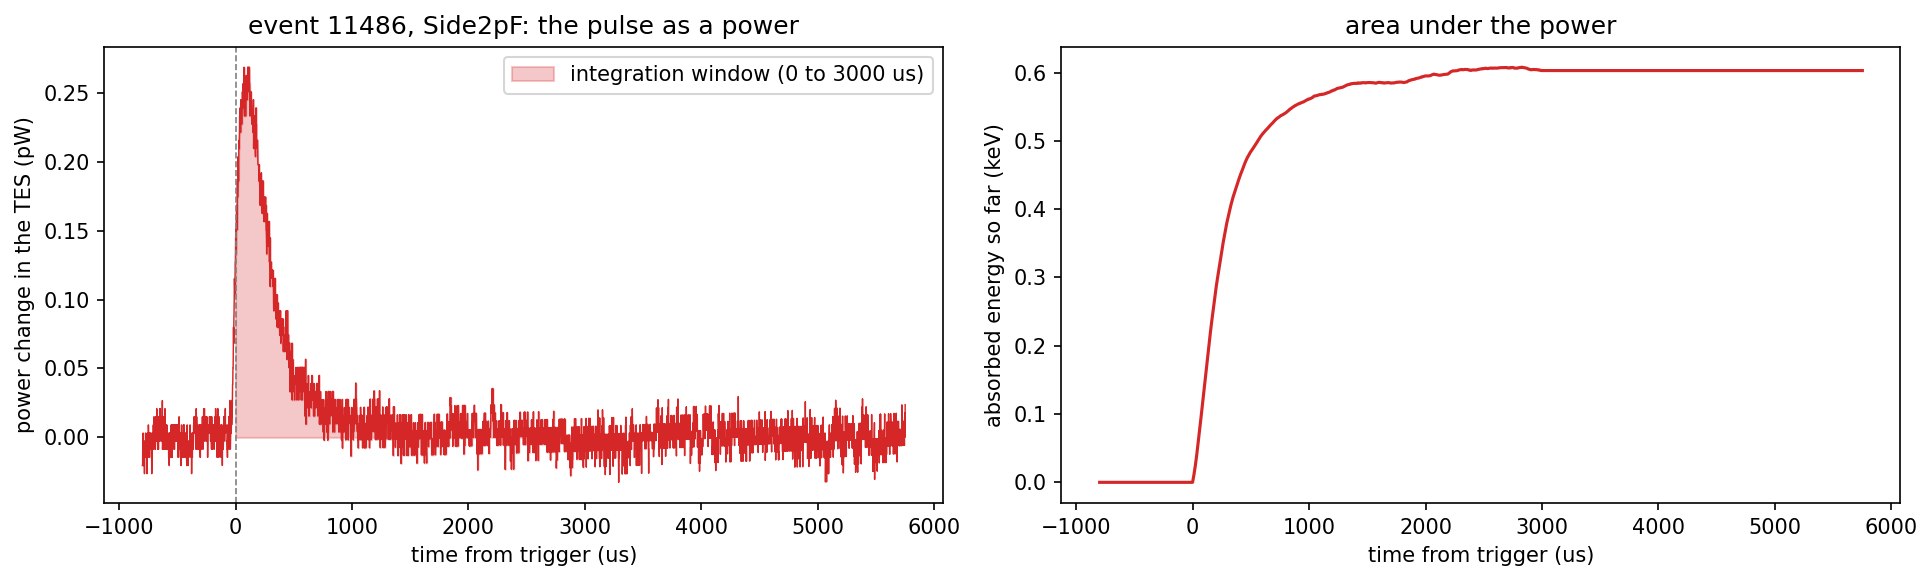
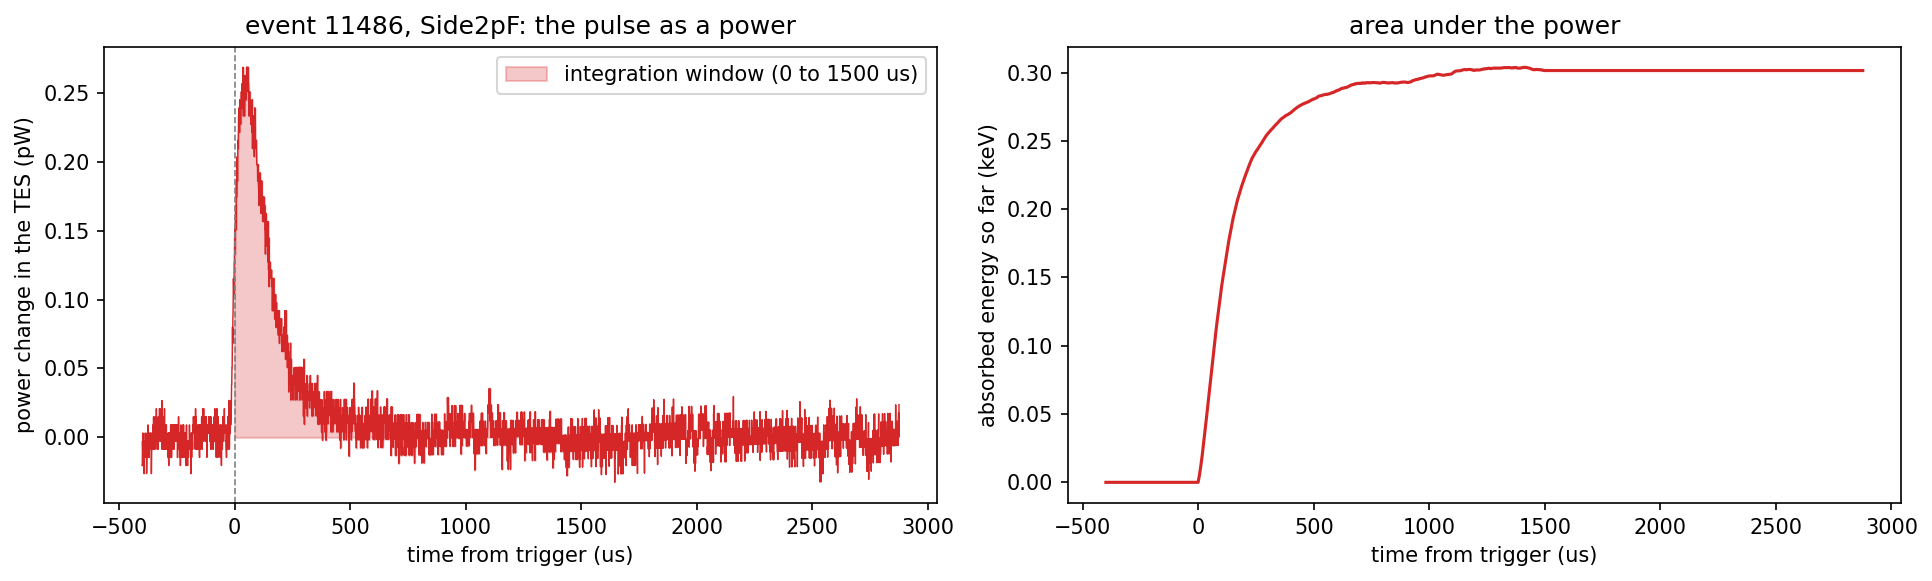
Note on pulse normalization: sample period 0.8 us (energies halve, times and ASD values corrected)
Worked example 0.30 keV in the channel and 1.15 keV in total (was 0.60 and 2.30),
total phonon energy 3.6 keV, electron-recoil energy 0.13 keV; the sample period
is no longer listed as unsettled; pins moved to the commit of the re-run notebooks.

diff --git a/notes/src/pulse-normalization.md b/notes/src/pulse-normalization.md
@@ -10,15 +10,15 @@ description: "Want a refresher on how to analyze the SQUID readout chain for Sup
 
 ## Code repository
 
-All the code of this note is in the repository `villano-lab/NSDF-Data`, in `data_analysis/R76/notebooks/pulse-normalization/` and in `python/`. Every link below is pinned to the commit `59e6e82`: it shows the file as it was when the results of this note were made, which may be older than the latest version, and the file may have moved since (see `data_analysis/README.md`). The notebooks read dump 1 of series `07221203_2025` from `~/idx` (see Data and setup).
+All the code of this note is in the repository `villano-lab/NSDF-Data`, in `data_analysis/R76/notebooks/pulse-normalization/` and in `python/`. Every link below is pinned to the commit `bab8e4d`: it shows the file as it was when the results of this note were made, which may be older than the latest version, and the file may have moved since (see `data_analysis/README.md`). The notebooks read dump 1 of series `07221203_2025` from `~/idx` (see Data and setup).
 
-- [`small-physics-triggers-07221203_2025.ipynb`](https://github.com/villano-lab/NSDF-Data/blob/59e6e82/data_analysis/R76/notebooks/pulse-normalization/small-physics-triggers-07221203_2025.ipynb): the selection of the small real triggers: the drift-robust rise height, the two-sided baseline compared with a straight line, the quiet-pretrigger cut, and the traces of all channels of a few events on one vertical scale.
-- [`detector-layout-small-triggers-07221203_2025.ipynb`](https://github.com/villano-lab/NSDF-Data/blob/59e6e82/data_analysis/R76/notebooks/pulse-normalization/detector-layout-small-triggers-07221203_2025.ipynb): the same events drawn over the detector layout (regions coloured by rise height, traces around the faces, a contact sheet).
-- [`pulse-in-qet-current-07221203_2025.ipynb`](https://github.com/villano-lab/NSDF-Data/blob/59e6e82/data_analysis/R76/notebooks/pulse-normalization/pulse-in-qet-current-07221203_2025.ipynb): one pulse from counts to QET current, power and absorbed energy (Figure 2), with all the constants of the conversion in one cell.
-- [`small_triggers.py`](https://github.com/villano-lab/NSDF-Data/blob/59e6e82/data_analysis/R76/notebooks/pulse-normalization/small_triggers.py) and [`detector_layout.py`](https://github.com/villano-lab/NSDF-Data/blob/59e6e82/data_analysis/R76/notebooks/pulse-normalization/detector_layout.py): the helper code of these notebooks (rise height, baselines, the quiet-pretrigger cut; the drawing of the layout).
-- [`umn-wiki-qet-channel-notes.md`](https://github.com/villano-lab/NSDF-Data/blob/59e6e82/data_analysis/R76/notebooks/pulse-normalization/umn-wiki-qet-channel-notes.md): the working summary of what the UMN wiki says about the QET channels (per-channel values, bias settings, gains).
-- [`tes_squid_readout_circuit.svg`](https://github.com/villano-lab/NSDF-Data/blob/59e6e82/data_analysis/R76/notebooks/figures/tes_squid_readout_circuit.svg): the source of the circuit diagram of Figure 1.
-- Library files used by the notebooks: [`pulse_io.py`](https://github.com/villano-lab/NSDF-Data/blob/59e6e82/python/pulse_io.py), [`pulse_cuts.py`](https://github.com/villano-lab/NSDF-Data/blob/59e6e82/python/pulse_cuts.py), [`pulse_channels.py`](https://github.com/villano-lab/NSDF-Data/blob/59e6e82/python/pulse_channels.py), [`pulse_config.py`](https://github.com/villano-lab/NSDF-Data/blob/59e6e82/python/pulse_config.py), [`pulse_quantities.py`](https://github.com/villano-lab/NSDF-Data/blob/59e6e82/python/pulse_quantities.py), [`pulse_operations.py`](https://github.com/villano-lab/NSDF-Data/blob/59e6e82/python/pulse_operations.py) and [`check_environment.py`](https://github.com/villano-lab/NSDF-Data/blob/59e6e82/python/check_environment.py). `pulse_channels.py` and the trigger-type cuts of `pulse_cuts.py` are tagged under development.
+- [`small-physics-triggers-07221203_2025.ipynb`](https://github.com/villano-lab/NSDF-Data/blob/bab8e4d/data_analysis/R76/notebooks/pulse-normalization/small-physics-triggers-07221203_2025.ipynb): the selection of the small real triggers: the drift-robust rise height, the two-sided baseline compared with a straight line, the quiet-pretrigger cut, and the traces of all channels of a few events on one vertical scale.
+- [`detector-layout-small-triggers-07221203_2025.ipynb`](https://github.com/villano-lab/NSDF-Data/blob/bab8e4d/data_analysis/R76/notebooks/pulse-normalization/detector-layout-small-triggers-07221203_2025.ipynb): the same events drawn over the detector layout (regions coloured by rise height, traces around the faces, a contact sheet).
+- [`pulse-in-qet-current-07221203_2025.ipynb`](https://github.com/villano-lab/NSDF-Data/blob/bab8e4d/data_analysis/R76/notebooks/pulse-normalization/pulse-in-qet-current-07221203_2025.ipynb): one pulse from counts to QET current, power and absorbed energy (Figure 2), with all the constants of the conversion in one cell.
+- [`small_triggers.py`](https://github.com/villano-lab/NSDF-Data/blob/bab8e4d/data_analysis/R76/notebooks/pulse-normalization/small_triggers.py) and [`detector_layout.py`](https://github.com/villano-lab/NSDF-Data/blob/bab8e4d/data_analysis/R76/notebooks/pulse-normalization/detector_layout.py): the helper code of these notebooks (rise height, baselines, the quiet-pretrigger cut; the drawing of the layout).
+- [`umn-wiki-qet-channel-notes.md`](https://github.com/villano-lab/NSDF-Data/blob/bab8e4d/data_analysis/R76/notebooks/pulse-normalization/umn-wiki-qet-channel-notes.md): the working summary of what the UMN wiki says about the QET channels (per-channel values, bias settings, gains).
+- [`tes_squid_readout_circuit.svg`](https://github.com/villano-lab/NSDF-Data/blob/bab8e4d/data_analysis/R76/notebooks/figures/tes_squid_readout_circuit.svg): the source of the circuit diagram of Figure 1.
+- Library files used by the notebooks: [`pulse_io.py`](https://github.com/villano-lab/NSDF-Data/blob/bab8e4d/python/pulse_io.py), [`pulse_cuts.py`](https://github.com/villano-lab/NSDF-Data/blob/bab8e4d/python/pulse_cuts.py), [`pulse_channels.py`](https://github.com/villano-lab/NSDF-Data/blob/bab8e4d/python/pulse_channels.py), [`pulse_config.py`](https://github.com/villano-lab/NSDF-Data/blob/bab8e4d/python/pulse_config.py), [`pulse_quantities.py`](https://github.com/villano-lab/NSDF-Data/blob/bab8e4d/python/pulse_quantities.py), [`pulse_operations.py`](https://github.com/villano-lab/NSDF-Data/blob/bab8e4d/python/pulse_operations.py) and [`check_environment.py`](https://github.com/villano-lab/NSDF-Data/blob/bab8e4d/python/check_environment.py). `pulse_channels.py` and the trigger-type cuts of `pulse_cuts.py` are tagged under development.
 
 ## Data and setup
 
@@ -69,13 +69,13 @@ A direct calibration of the whole chain exists in principle: the DCRC signal gen
 
 ### A check against typical noise
 
-The Confluence page on noise settings [[1]](#references) quotes typical noise levels of $10^{-11}\ \mathrm{A}/\sqrt{\mathrm{Hz}}$ (normal), $10^{-10}$ (transition) and $10^{-10}$ (superconducting). Our amplitude spectral density of the clean randoms (Note 9) is flat above 100 kHz at 2.4 to 2.6 $\times 10^{-3}$ counts/$\sqrt{\mathrm{Hz}}$ in five of the seven channels, and 6.7 $\times 10^{-3}$ to 1.2 $\times 10^{-2}$ counts/$\sqrt{\mathrm{Hz}}$ between 1 and 10 kHz. With 170 counts per µA these are about $1.4$ to $1.5 \times 10^{-11}\ \mathrm{A}/\sqrt{\mathrm{Hz}}$ and $4$ to $7 \times 10^{-11}\ \mathrm{A}/\sqrt{\mathrm{Hz}}$. That is the same order as the typical values, which supports the conversion to within a factor of a few at most; the Confluence values are for other detectors and electronics, so this cannot test the gain more closely. <!-- numbers-ok -->
+The Confluence page on noise settings [[1]](#references) quotes typical noise levels of $10^{-11}\ \mathrm{A}/\sqrt{\mathrm{Hz}}$ (normal), $10^{-10}$ (transition) and $10^{-10}$ (superconducting). Our amplitude spectral density of the clean randoms (Note 9) is flat above 200 kHz at 1.7 to 1.8 $\times 10^{-3}$ counts/$\sqrt{\mathrm{Hz}}$ in five of the seven channels, and 4.7 $\times 10^{-3}$ to 8.5 $\times 10^{-3}$ counts/$\sqrt{\mathrm{Hz}}$ between 2 and 20 kHz (for the sample period of 0.8 µs). With 170 counts per µA these are about $1.0$ to $1.1 \times 10^{-11}\ \mathrm{A}/\sqrt{\mathrm{Hz}}$ and $3$ to $5 \times 10^{-11}\ \mathrm{A}/\sqrt{\mathrm{Hz}}$. That is the same order as the typical values, which supports the conversion to within a factor of a few at most; the Confluence values are for other detectors and electronics, so this cannot test the gain more closely. <!-- numbers-ok -->
 
 ### What is not settled
 
 - **The 10.5.** We found no derivation or independent measurement of the loop gain on the wiki, and our reading of it as $M/M_\mathrm{f}$ is an interpretation. <!-- numbers-ok -->
 - **Which gain settings apply.** The ODB of series `07220916_2200` (16 September 2022) has `VGAGain` 5 on two channels of DCRC3 (`Side1pE` and `Side2pE`) and 2 on the others, and `PGAGain` 1 on all of them. We could not establish how these fields map onto $G_\mathrm{DCRC}$ and $G_\mathrm{driver}$ of the calibration code, so the 170 counts per µA may be wrong by a factor 2.5 for those two channels. The settings of the series used here (`07221203_2025`, started at 20:25 on 3 December 2022 [[8]](#references)) have to be read from its own ODB. <!-- numbers-ok -->
-- **The sample period.** The calibration code uses 0.8 µs per sample [[7]](#references); the notebooks of this note use 1.6 µs. The two have to be reconciled before any time integral is converted. <!-- numbers-ok -->
+- **The sample period is settled.** The calibration code uses 0.8 µs per sample [[7]](#references), and so do the run diaries, the ODB and the NaI trigger pulse (see *The sample period* in `python/README.md`). The notebooks of this note used a wrong 1.6 µs until 22 October 2026; all times and energies here are for 0.8 µs, half of what the first version of this note gave. <!-- numbers-ok -->
 - **Which channels are QET channels.** `Side2pB` (DCRC4, channel pA) is probably not a QET channel in this series: the wiki's diaries of September and October 2022 use DCRC4pA as the input of the NaI trigger [[9]](#references). No QET current exists for it.
 
 ## Ib-Is curves
@@ -102,17 +102,17 @@ $$\Delta P(t) = \frac{\mathrm{d}P}{\mathrm{d}I}\,\Delta I(t), \qquad E_\mathrm{a
 
 For a voltage-biased TES $\mathrm{d}P/\mathrm{d}I$ is the voltage across the TES [[10]](#references), $V_\mathrm{TES} = I_\mathrm{s} R_\mathrm{TES}$. The wiki sets all the QET biases of Run 75 and Run 76 to the same $\mathrm{d}P/\mathrm{d}I = 1.0\ \mu\mathrm{V}$, which makes the channels balanced and the energy of a channel just this number times the integral of its current [[2, 7]](#references). That value is plausible: with $I_\mathrm{s} \approx 20\ \mu\mathrm{A}$ near the transition (a reading of the Run 75 IbIs plot) and $R_\mathrm{TES}$ between 0.5 and 0.8 of $R_\mathrm{n}$ (the Run 75 table gives $R_\mathrm{n}$ from 59 to 95 mΩ, so $R_\mathrm{TES}$ of 30 to 70 mΩ), $I_\mathrm{s} R_\mathrm{TES}$ is 0.6 to 1.4 $\mu\mathrm{V}$. <!-- numbers-ok -->
 
-**A worked example.** The notebook `pulse-in-qet-current-07221203_2025.ipynb` takes one real pulse of the small triggers: event 11486, channel `Side2pF`, a rise height of 43 counts. After the baseline subtraction the peak is 45.6 counts, which is 0.27 µA, or 0.27 pW of power change at 118 µs after the trigger. The charge through the QET branch in the first 3 ms is 96.6 pC, so with $\mathrm{d}P/\mathrm{d}I = 1.0\ \mu\mathrm{V}$ the absorbed energy is $9.7\times 10^{-17}$ J, 0.60 keV, in this channel; the six QET channels of the event together absorb 2.30 keV. With the wiki's 0.8 µs per sample instead of our 1.6 µs these two energies are 0.30 and 1.15 keV. <!-- numbers-ok -->
+**A worked example.** The notebook `pulse-in-qet-current-07221203_2025.ipynb` takes one real pulse of the small triggers: event 11486, channel `Side2pF`, a rise height of 43 counts. After the baseline subtraction the peak is 45.6 counts, which is 0.27 µA, or 0.27 pW of power change at 59 µs after the trigger. The charge through the QET branch in the first 1.5 ms is 48.3 pC, so with $\mathrm{d}P/\mathrm{d}I = 1.0\ \mu\mathrm{V}$ the absorbed energy is $4.8\times 10^{-17}$ J, 0.30 keV, in this channel; the six QET channels of the event together absorb 1.15 keV. (The first version of this note used a wrong sample period of 1.6 µs and gave 0.60 and 2.30 keV.) <!-- numbers-ok -->
 
 ![](img/pulse-as-power-event11486-Side2pF.png)
 
-**Figure 2: One pulse as a power.** Event 11486 of series 07221203\_2025, dump 1, channel `Side2pF`. Left: the QET-branch current of the pulse (after the baseline subtraction and the conversion of the note) multiplied by $\mathrm{d}P/\mathrm{d}I = 1.0\ \mu\mathrm{V}$, in picowatts; the shaded area is the integration window, from the trigger to 3 ms. Right: the running area under the power, the energy absorbed so far, which levels off at 0.60 keV. <!-- numbers-ok -->
+**Figure 2: One pulse as a power.** Event 11486 of series 07221203\_2025, dump 1, channel `Side2pF`. Left: the QET-branch current of the pulse (after the baseline subtraction and the conversion of the note) multiplied by $\mathrm{d}P/\mathrm{d}I = 1.0\ \mu\mathrm{V}$, in picowatts; the shaded area is the integration window, from the trigger to 1.5 ms. Right: the running area under the power, the energy absorbed so far, which levels off at 0.30 keV. <!-- numbers-ok -->
 
-**From the absorbed to the deposited energy.** The QETs collect only a fraction of the phonon energy, the phonon collection efficiency $\mathrm{PCE}$, so the total phonon energy is $E_\mathrm{abs}/\mathrm{PCE}$. The wiki measured it for this detector with americium lines at 0 V in the first Run 76 series (March to April 2022): 0.313 at low energy and 0.331 at 60 keV, about 0.32, "the highest PCE we've ever measured" [[7]](#references). It was not measured for December 2022. With 0.32 the example event has a total phonon energy of 7.2 keV. The series was taken with the detector at -83.2 V [[8]](#references), so this phonon energy includes the Neganov-Luke phonons, a factor $1 + eV_\mathrm{b}/\varepsilon$ of about 29 for an electron recoil (assuming $\varepsilon = 3.0$ eV in germanium; a nuclear recoil has a smaller factor). The recoil energy therefore cannot be stated until we know the event type: for an electron recoil it would be 0.25 keV. <!-- numbers-ok -->
+**From the absorbed to the deposited energy.** The QETs collect only a fraction of the phonon energy, the phonon collection efficiency $\mathrm{PCE}$, so the total phonon energy is $E_\mathrm{abs}/\mathrm{PCE}$. The wiki measured it for this detector with americium lines at 0 V in the first Run 76 series (March to April 2022): 0.313 at low energy and 0.331 at 60 keV, about 0.32, "the highest PCE we've ever measured" [[7]](#references). It was not measured for December 2022. With 0.32 the example event has a total phonon energy of 3.6 keV. The series was taken with the detector at -83.2 V [[8]](#references), so this phonon energy includes the Neganov-Luke phonons, a factor $1 + eV_\mathrm{b}/\varepsilon$ of about 29 for an electron recoil (assuming $\varepsilon = 3.0$ eV in germanium; a nuclear recoil has a smaller factor). The recoil energy therefore cannot be stated until we know the event type: for an electron recoil it would be 0.13 keV. <!-- numbers-ok -->
 
 **When the linear approximation fails.** For strong pulses, when $\Delta I$ is a significant fraction of $I_\mathrm{s}$, the wiki gives a second-order correction, $\mathrm{d}P/\mathrm{d}I \to \mathrm{d}P/\mathrm{d}I + (1 + R_\mathrm{par}/R_\mathrm{sh})\,R_\mathrm{sh} \int \Delta I\,\mathrm{d}t / \tau$, with $\tau$ a pulse width taken from the walk quantities [[7]](#references). The example is far from that regime (the largest peak is 1.3% of 20 µA); the largest pulses of the dump, about 1000 counts or 5.9 µA, are at about 30%. <!-- numbers-ok -->
 
-**What is not settled.** Every number above rests on the constants of the previous sections (the 10.5, the gain fields, the sample period) and on $\mathrm{d}P/\mathrm{d}I = 1.0\ \mu\mathrm{V}$, which is the Run 75/76 set point and not a measurement of the December 2022 series (the last IbIs entry in the diaries is of 1 September 2022). The PCE is from 0 V data of spring 2022. The result is the size of the effect, not a calibration. <!-- numbers-ok -->
+**What is not settled.** Every number above rests on the constants of the previous sections (the 10.5 and the gain fields) and on $\mathrm{d}P/\mathrm{d}I = 1.0\ \mu\mathrm{V}$, which is the Run 75/76 set point and not a measurement of the December 2022 series (the last IbIs entry in the diaries is of 1 September 2022). The PCE is from 0 V data of spring 2022. The result is the size of the effect, not a calibration. <!-- numbers-ok -->
 
 ## References
 
